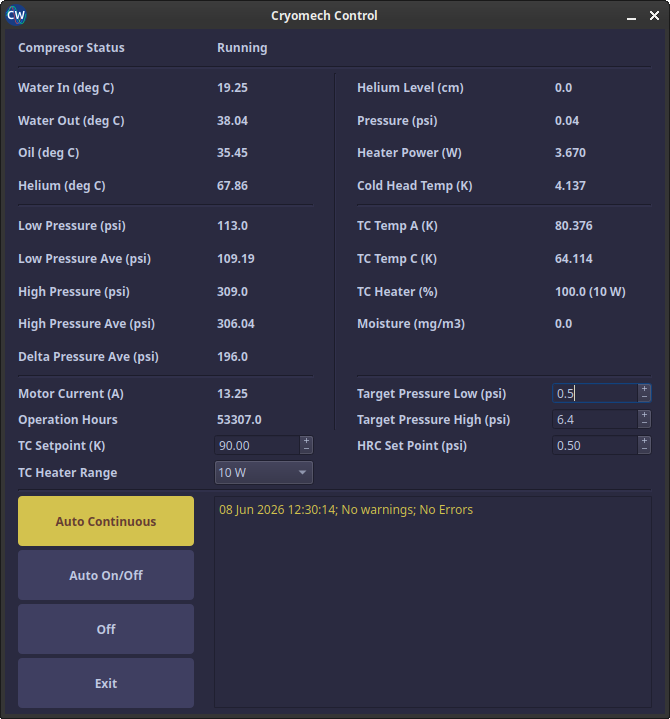
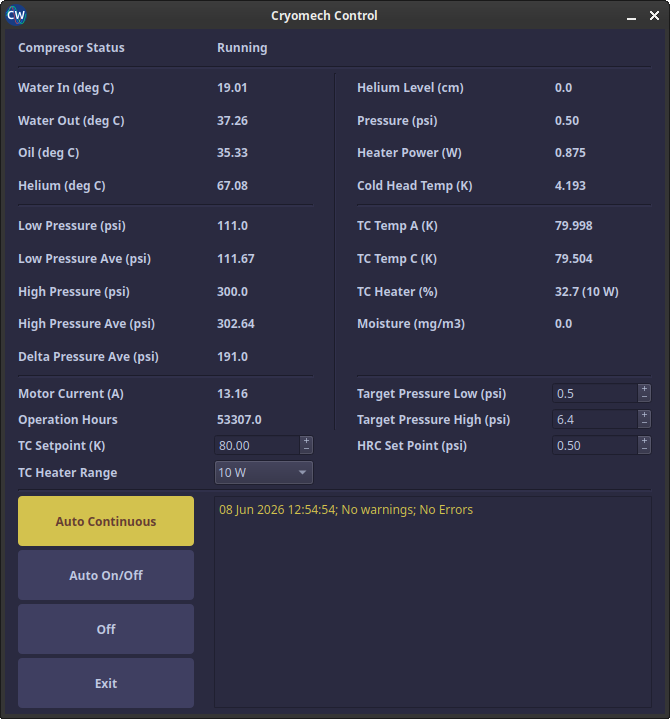
2026=06-08; cryomech_control screenshot update

diff --git a/docs/projects/cryomech.md b/docs/projects/cryomech.md
@@ -52,7 +52,7 @@ A Telegram bot provides remote monitoring and control from a phone. After author
 - switch the compressor between **Auto On/Off**, **Auto Continuous**, and **Off**;
 - set the TC **setpoint** (`sp50` → 50 K) and **heater range** (`sh10` / `sh1` / `shoff`).
 
-![Cryomech Telegram bot](../images/cryomech_bot.png)
+![Cryomech Telegram bot](../images/cryomech_bot.png){ width="350" }
 
 Commands sent from the bot are handed to the control window through a small file-based handshake, so the bot never talks to the instruments directly — the control window remains the single owner of all device I/O.
 